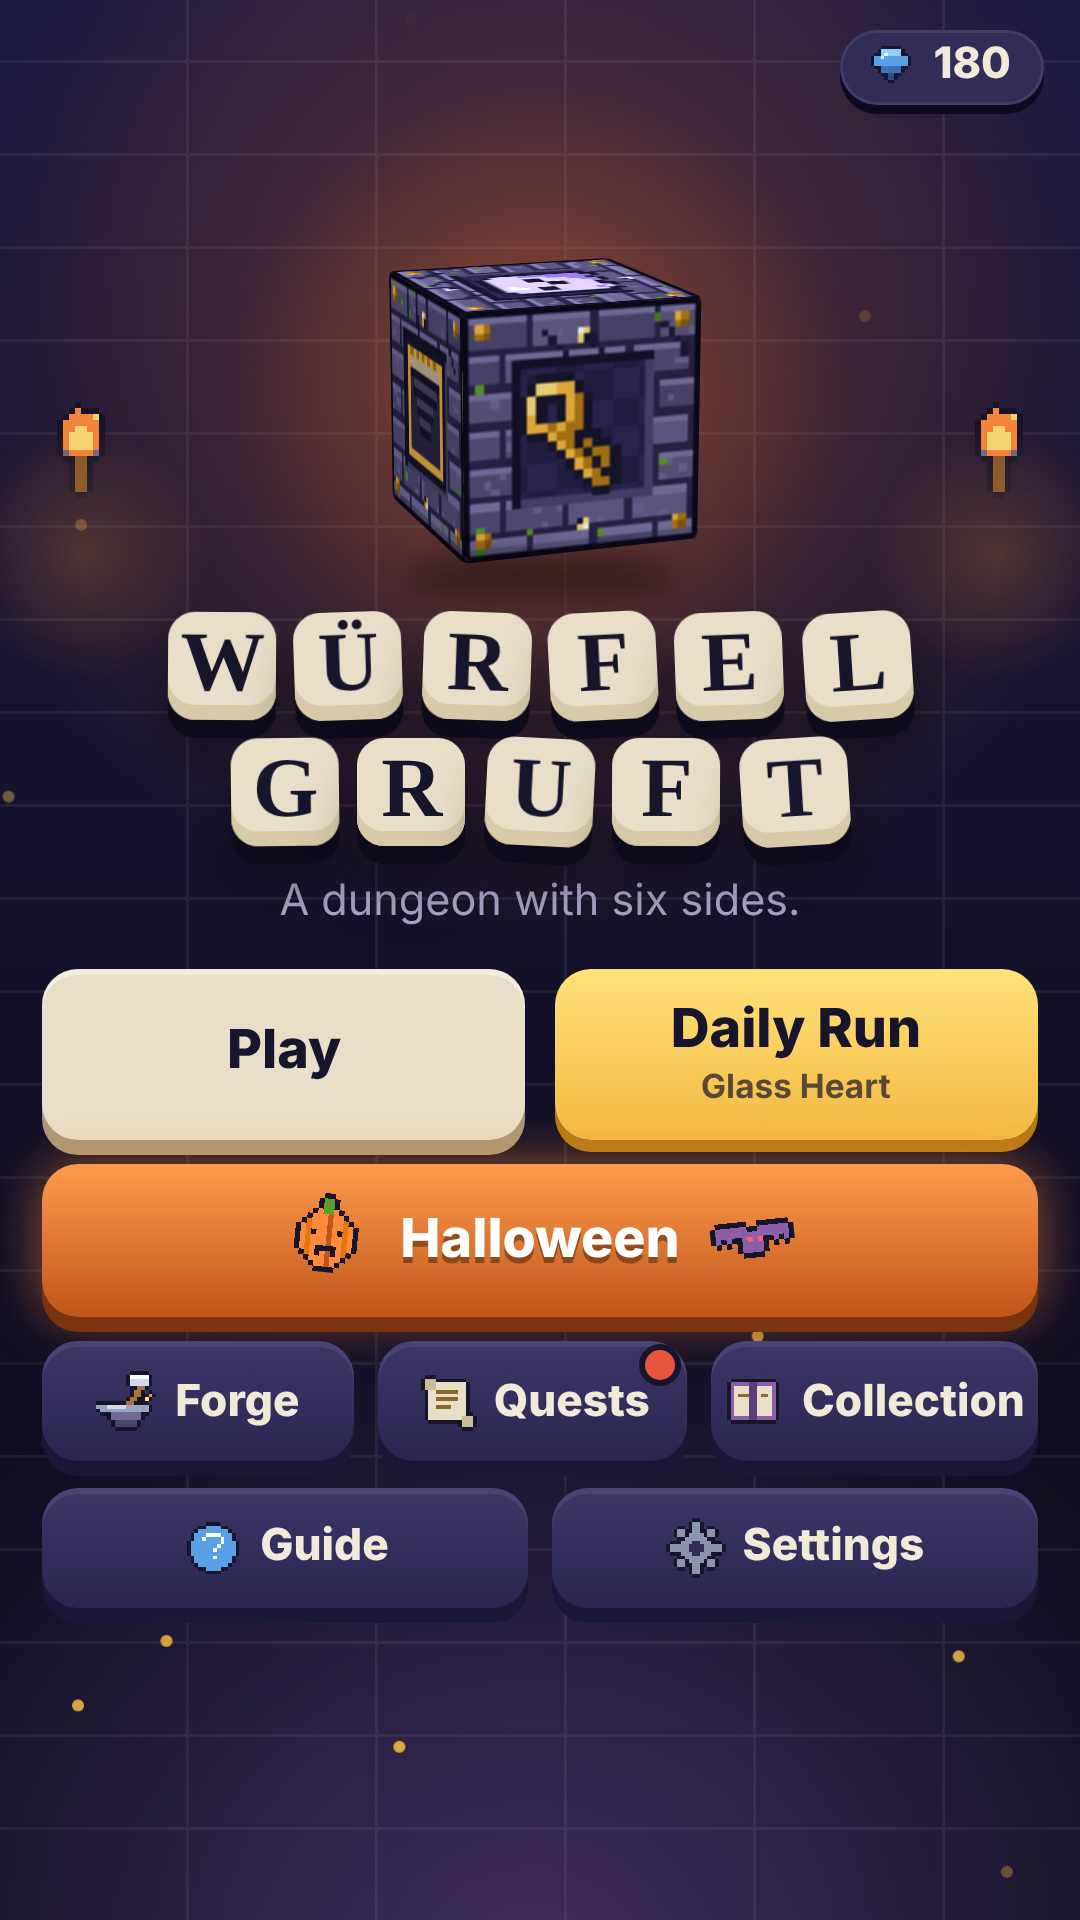
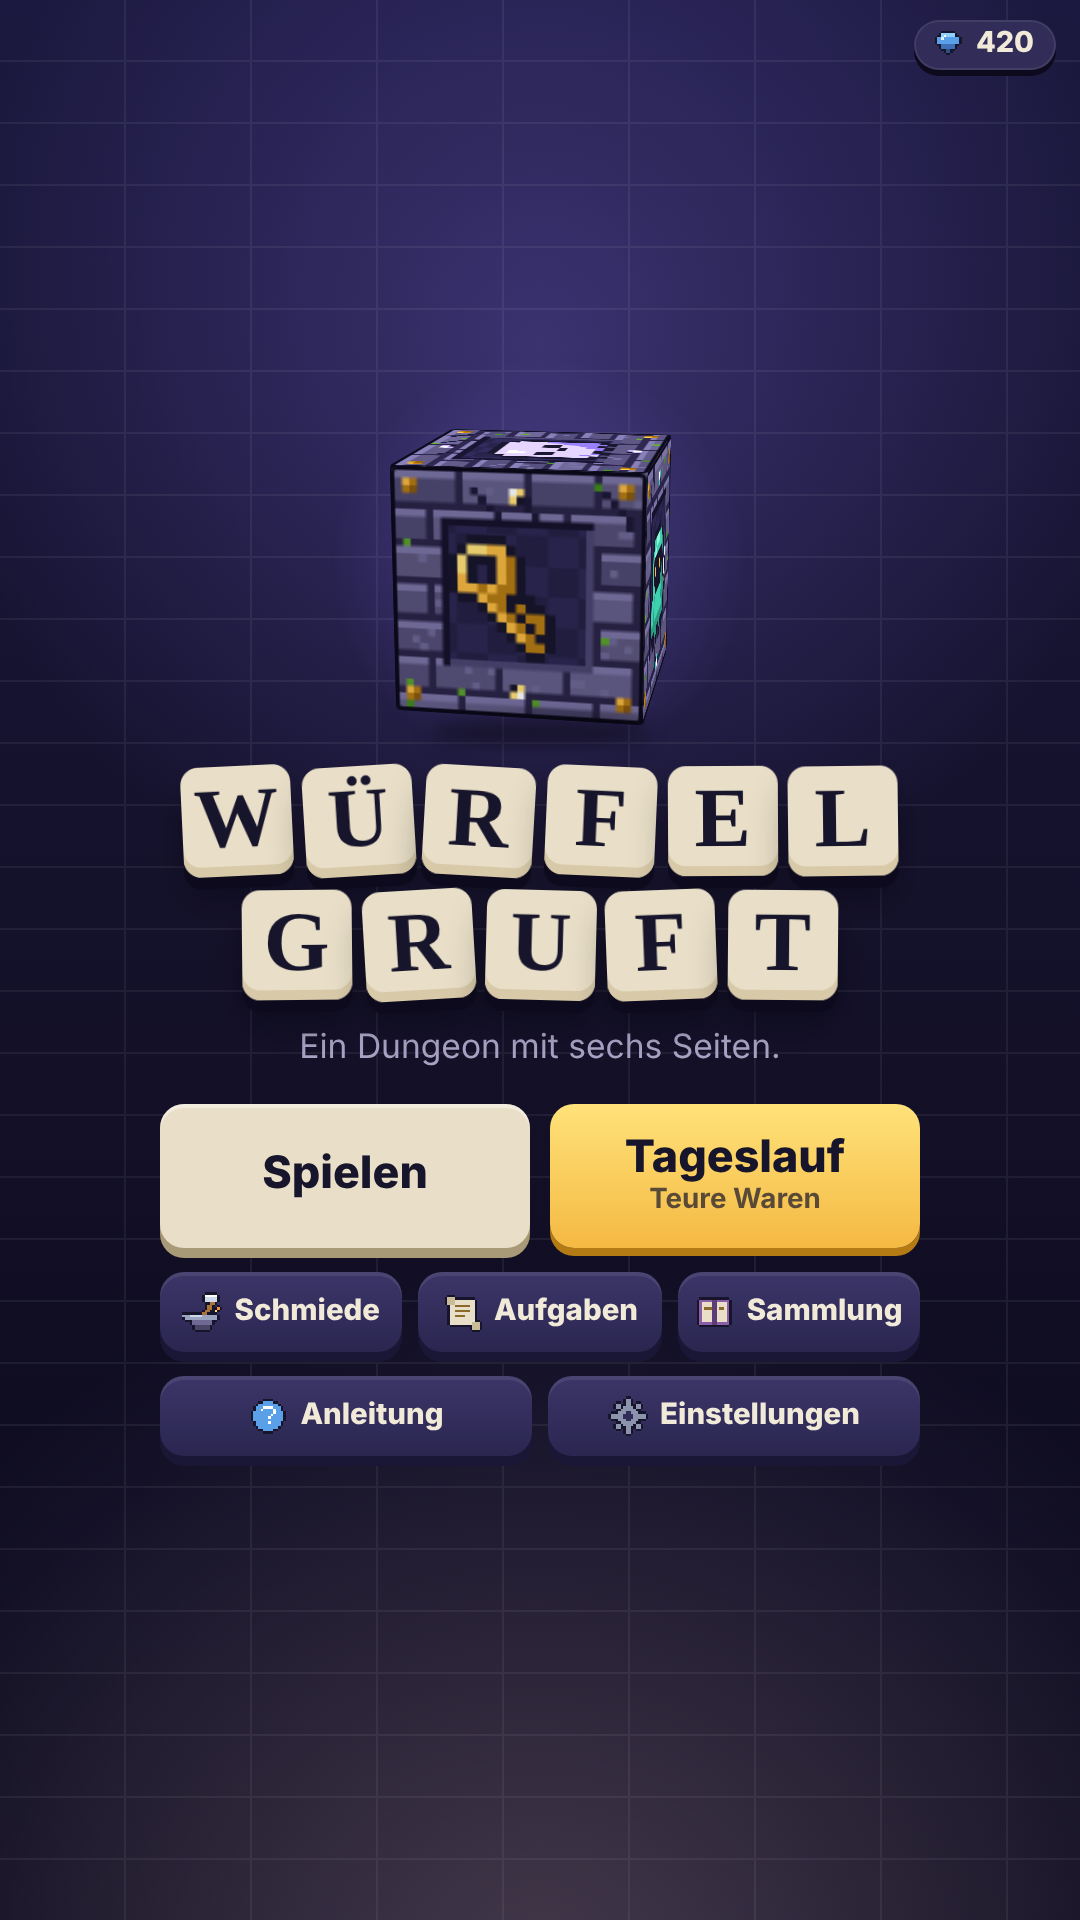
Store-Screenshots erneuert (Titel, Event, Vegas-Tische, Etagenziele); versteckte Buttons bleiben unsichtbar (#75)
Claude-Session: https://claude.ai/code/session_013bGVLMWP3oVJyEq4GveZD4

diff --git a/index.html b/index.html
@@ -537,7 +537,7 @@ html.lite .tbg .fog,html.lite .torch::before{animation:none}
 .vg-ico.dice{color:#17152b}
 .vg-chips button.rd.on{border-color:#ff5d73;color:#ff5d73}.vg-chips button.bk.on{border-color:#e9dfc8;color:#e9dfc8}
 .btn.gold{background:linear-gradient(180deg,#ffe27a,#f4b942);color:#17152b;box-shadow:0 4px 0 #b47a14}
-.trow[hidden]{display:none}
+.btn[hidden],.trow[hidden]{display:none!important}
 .goalrow{display:flex;align-items:center;gap:8px;background:var(--ink3);border-radius:10px;padding:7px 10px;margin:0 0 8px;font-size:.92rem;line-height:1.25}
 .goalrow .px{flex:none;--cs:26px}
 .goalrow b{color:var(--gold)}

diff --git a/store/listing_de.md b/store/listing_de.md
@@ -28,11 +28,13 @@ Mal ist es ein Schlüssel, mal sind es Schalter auf mehreren Seiten, ein Opferal
 **Sprachen:** Deutsch, Englisch (folgt der Gerätesprache)
 **Preis:** kostenlos, freiwillige Belohnungs-Werbung, In-App-Käufe (Werbefrei, Unterstützer-Skin)
 
-## Screenshots (Vorschlag, 1080×1920)
-1. Etage 1 mit Tutorial-Hinweis
-2. Würfelnetz und Zonenwechsel (Wüste / Eis)
-3. Bosskampf mit Lebensleiste
-4. Händler mit Würfelspiel
-5. Klassenwahl
-6. Skins in der Sammlung
-7. Event (Vegas-Nacht oder Halloween)
+## Screenshots (1080×1920, Reihenfolge)
+1. `1_titel.png` Titelbild
+2. `2_gruft.png` Etage mit Würfelnetz
+3. `3_wueste.png` Zonenwechsel Wüste
+4. `4_eisboss.png` Bosskampf
+5. `13_schalter.png` Etagenziel: Schalter auf mehreren Seiten
+6. `14_altar.png` Etagenziel: Opferaltar
+7. `10_event.png` Event-Titelbild (Halloween)
+8. `9_vegas.png`, `11_blackjack.png`, `12_roulette.png` Vegas-Nacht
+9. `8_skins.png` Skins in der Sammlung
